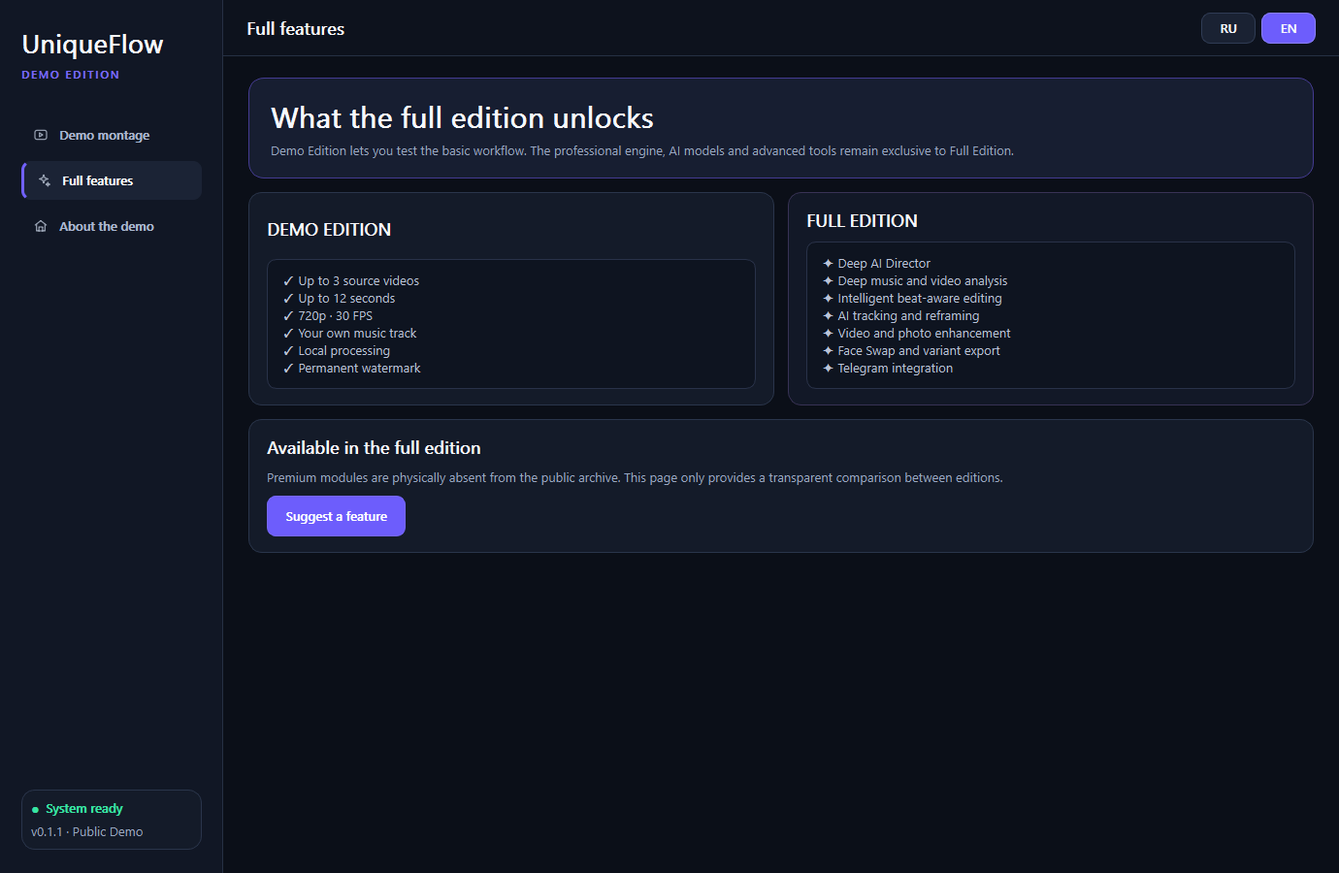
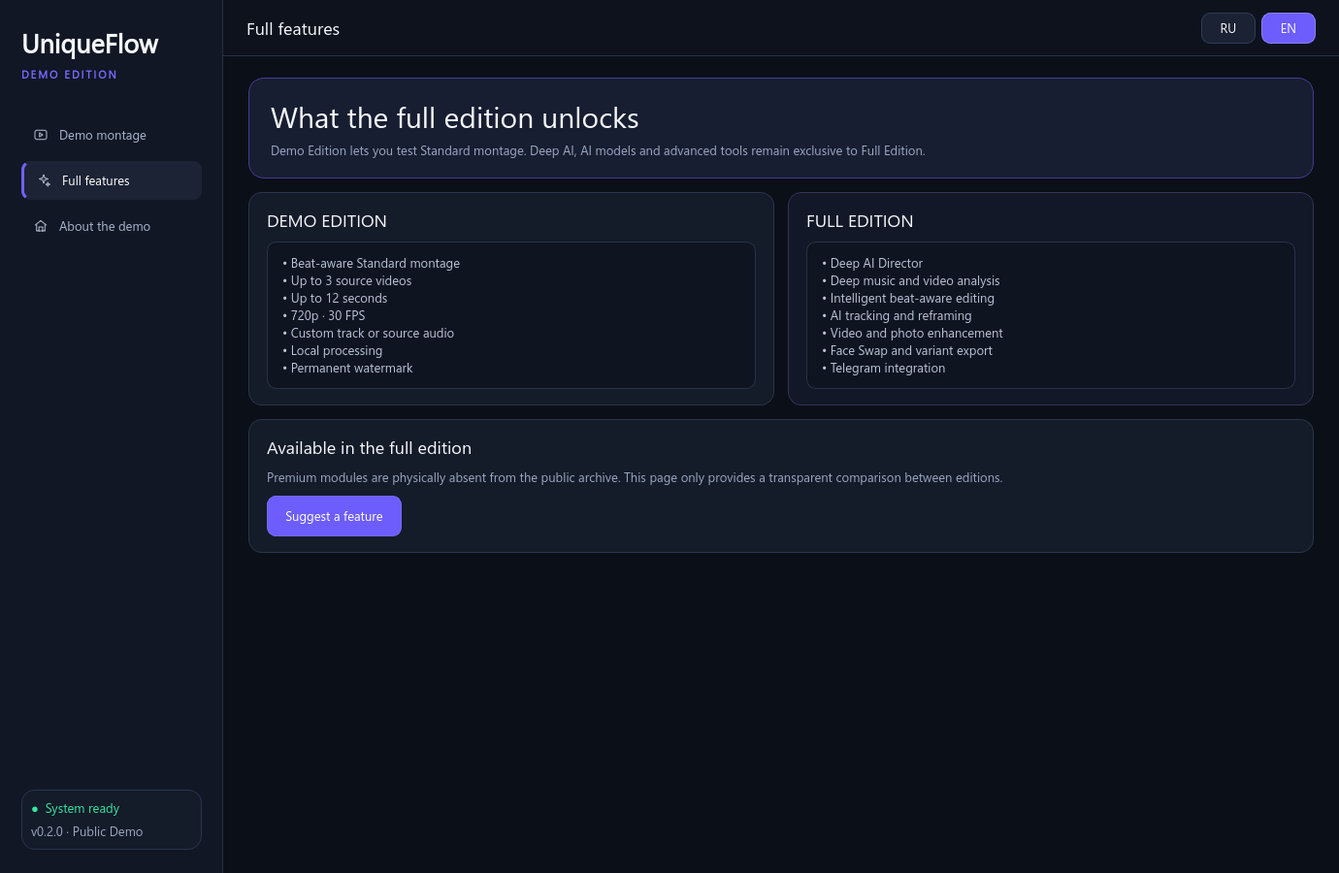
Upgrade public demo to Standard montage 0.2.0

diff --git a/ru/index.html b/ru/index.html
@@ -51,14 +51,14 @@
     <section class="proof-strip" aria-label="Параметры демоверсии"><div class="shell proof-grid"><div><b>3</b><span>исходных видео</span></div><div><b>12с</b><span>готовый результат</span></div><div><b>720p</b><span>экспорт H.264</span></div><div><b>100%</b><span>локальная работа</span></div></div></section>
 
     <section class="section showcase" id="showcase"><div class="shell showcase-grid">
-      <div class="section-copy reveal"><p class="eyebrow"><span></span> Демонстрация продукта</p><h2>Посмотрите процесс,<br>а не обещания.</h2><p>Full Edition развивается как умная творческая студия. Публичная демоверсия уже сейчас позволяет безопасно проверить базовый рабочий процесс.</p><ul class="check-list"><li>Добавьте до трёх локальных роликов</li><li>Выберите музыкальный трек</li><li>Посмотрите и экспортируйте результат</li></ul></div>
+      <div class="section-copy reveal"><p class="eyebrow"><span></span> Демонстрация продукта</p><h2>Посмотрите процесс,<br>а не обещания.</h2><p>Full Edition развивается как умная творческая студия. Demo 0.2.0 уже позволяет проверить настоящий, но ограниченный Standard-монтаж.</p><ul class="check-list"><li>Добавьте до трёх локальных роликов</li><li>Выберите музыку или оставьте звук первого видео</li><li>Получите Standard-монтаж с учётом ритма</li></ul></div>
       <div class="video-card reveal"><div class="video-label"><span>UNIQUEFLOW</span><small>ПРЕДПРОСМОТР FULL EDITION</small></div><video controls playsinline preload="metadata" poster="../assets/promo-poster-ru.jpg"><source src="../assets/uniqueflow-studio-promo-ru.mp4" type="video/mp4">Ваш браузер не поддерживает HTML5-видео.</video><p>Рекламная демонстрация. Публичная версия намеренно ограничена.</p></div>
     </div></section>
 
     <section class="section section-muted" id="features"><div class="shell">
       <div class="section-heading reveal"><p class="eyebrow"><span></span> Идея UniqueFlow</p><h2>Меньше настроек. Больше готовых работ.</h2><p>Импорт, просмотр, монтаж и экспорт коротких роликов в одном приложении.</p></div>
       <div class="feature-grid">
-        <article class="feature-card reveal"><span class="feature-index">01</span><h3>Монтаж с учётом музыки</h3><p>Full Edition анализирует ритм и движение, чтобы строить монтаж под материал, а не по одному шаблону.</p></article>
+        <article class="feature-card reveal"><span class="feature-index">01</span><h3>Монтаж с учётом музыки</h3><p>Demo анализирует ритм и движение для Standard-монтажа; Full Edition добавляет более глубокое понимание сцен и режиссуру.</p></article>
         <article class="feature-card reveal"><span class="feature-index">02</span><h3>Умное кадрирование</h3><p>Трекинг и кадрирование помогают удерживать главного героя в вертикальной или горизонтальной композиции.</p></article>
         <article class="feature-card reveal"><span class="feature-index">03</span><h3>Улучшение качества</h3><p>Улучшение видео и фото, а также расширенный экспорт входят в закрытую Full Edition.</p></article>
         <article class="feature-card reveal"><span class="feature-index">04</span><h3>Локальная работа</h3><p>Публичное демо обрабатывает выбранные файлы на вашем компьютере и не содержит аналитики или телеметрии.</p></article>
@@ -67,7 +67,7 @@
 
     <section class="section" id="demo"><div class="shell">
       <div class="section-heading reveal"><p class="eyebrow"><span></span> Публичная Demo Edition</p><h2>Попробуйте за несколько минут.</h2><p>Без аккаунта и установщика. Скачайте, распакуйте и запустите.</p></div>
-      <div class="steps"><article class="step reveal"><b>1</b><div><h3>Скачайте</h3><p>Загрузите свежий ZIP-архив из GitHub Releases.</p></div></article><article class="step reveal"><b>2</b><div><h3>Добавьте файлы</h3><p>Выберите до трёх видео и при желании музыку.</p></div></article><article class="step reveal"><b>3</b><div><h3>Создайте результат</h3><p>Получите ролик до 12 секунд в 720p с водяным знаком.</p></div></article></div>
+      <div class="steps"><article class="step reveal"><b>1</b><div><h3>Скачайте</h3><p>Загрузите свежий ZIP-архив из GitHub Releases.</p></div></article><article class="step reveal"><b>2</b><div><h3>Добавьте файлы</h3><p>Выберите до трёх видео. Музыка необязательна — звук исходника сохранится.</p></div></article><article class="step reveal"><b>3</b><div><h3>Создайте результат</h3><p>Получите ролик до 12 секунд в 720p с водяным знаком.</p></div></article></div>
       <div class="screenshot-frame reveal"><img src="../assets/demo-features-ru.png" alt="Сравнение UniqueFlow Studio Demo и Full Edition" width="1380" height="900" loading="lazy"></div>
     </div></section>
 
@@ -75,16 +75,16 @@
       <div class="comparison-intro reveal"><p class="eyebrow"><span></span> Честное разделение версий</p><h2>Настоящее демо<br>с понятными рамками.</h2><p>Закрытый движок и премиальные модули физически отсутствуют в публичной загрузке.</p></div>
       <div class="comparison-table reveal" role="table" aria-label="Сравнение Demo и Full Edition">
         <div class="comparison-row comparison-head" role="row"><span role="columnheader">Возможность</span><b role="columnheader">Demo</b><b role="columnheader">Full</b></div>
-        <div class="comparison-row" role="row"><span>Базовый короткий монтаж</span><b class="yes">✓</b><b class="yes">✓</b></div><div class="comparison-row" role="row"><span>Локальная обработка</span><b class="yes">✓</b><b class="yes">✓</b></div><div class="comparison-row" role="row"><span>Deep AI Director</span><b class="no">—</b><b class="yes">✓</b></div><div class="comparison-row" role="row"><span>AI-трекинг и кадрирование</span><b class="no">—</b><b class="yes">✓</b></div><div class="comparison-row" role="row"><span>Улучшение и премиум-экспорт</span><b class="no">—</b><b class="yes">✓</b></div><div class="comparison-row" role="row"><span>Интеграция с Telegram</span><b class="no">—</b><b class="yes">✓</b></div>
+        <div class="comparison-row" role="row"><span>Standard-монтаж в ритм</span><b class="yes">✓</b><b class="yes">✓</b></div><div class="comparison-row" role="row"><span>Локальная обработка</span><b class="yes">✓</b><b class="yes">✓</b></div><div class="comparison-row" role="row"><span>Deep AI Director</span><b class="no">—</b><b class="yes">✓</b></div><div class="comparison-row" role="row"><span>AI-трекинг и кадрирование</span><b class="no">—</b><b class="yes">✓</b></div><div class="comparison-row" role="row"><span>Улучшение и премиум-экспорт</span><b class="no">—</b><b class="yes">✓</b></div><div class="comparison-row" role="row"><span>Интеграция с Telegram</span><b class="no">—</b><b class="yes">✓</b></div>
       </div>
     </div></section>
 
     <section class="section section-muted" id="faq"><div class="shell faq-grid">
       <div class="section-copy reveal"><p class="eyebrow"><span></span> Вопросы</p><h2>Что важно знать.</h2><p>UniqueFlow пока находится на ранней стадии. Честные отзывы напрямую влияют на следующие функции.</p></div>
-      <div class="faq-list reveal"><details><summary>Демоверсия бесплатная?</summary><p>Да. Версия 0.1.1 — ограниченная ознакомительная сборка с видимым водяным знаком.</p></details><details><summary>Видео загружаются в интернет?</summary><p>Нет. Публичное демо обрабатывает выбранные файлы локально и не содержит телеметрии.</p></details><details><summary>Почему Windows показывает предупреждение?</summary><p>Ранняя сборка пока не подписана цифровой подписью, поэтому SmartScreen может показать «Неизвестный издатель». Скачивайте программу только из официального GitHub Release и сверяйте SHA-256.</p></details><details><summary>Можно использовать любое видео?</summary><p>Используйте только свои материалы или контент, на который у вас есть разрешение. Программа не предназначена для нарушения приватности, авторских прав или правил площадок.</p></details><details><summary>Как связаться с разработчиком?</summary><p>Напишите в Telegram <a href="https://t.me/zloy_tomych">@zloy_tomych</a> или создайте Issue на GitHub.</p></details></div>
+      <div class="faq-list reveal"><details><summary>Демоверсия бесплатная?</summary><p>Да. Версия 0.2.0 — ограниченная ознакомительная сборка со Standard-монтажом и видимым водяным знаком.</p></details><details><summary>Видео загружаются в интернет?</summary><p>Нет. Публичное демо обрабатывает выбранные файлы локально и не содержит телеметрии.</p></details><details><summary>Почему Windows показывает предупреждение?</summary><p>Ранняя сборка пока не подписана цифровой подписью, поэтому SmartScreen может показать «Неизвестный издатель». Скачивайте программу только из официального GitHub Release и сверяйте SHA-256.</p></details><details><summary>Можно использовать любое видео?</summary><p>Используйте только свои материалы или контент, на который у вас есть разрешение. Программа не предназначена для нарушения приватности, авторских прав или правил площадок.</p></details><details><summary>Как связаться с разработчиком?</summary><p>Напишите в Telegram <a href="https://t.me/zloy_tomych">@zloy_tomych</a> или создайте Issue на GitHub.</p></details></div>
     </div></section>
 
-    <section class="final-cta"><div class="shell final-cta-inner reveal"><div><p class="eyebrow"><span></span> Помогите выбрать следующий шаг</p><h2>Попробуйте. Проверьте. Расскажите, что важно.</h2><p>Ваш отзыв поможет расставить приоритеты развития.</p></div><div class="final-actions"><a class="button button-primary" href="https://github.com/chernoivanenko45/UniqueFlow-Studio-Demo/releases/latest">Скачать Demo 0.1.1</a><a class="button button-ghost" href="https://t.me/zloy_tomych">Telegram @zloy_tomych</a></div></div></section>
+    <section class="final-cta"><div class="shell final-cta-inner reveal"><div><p class="eyebrow"><span></span> Помогите выбрать следующий шаг</p><h2>Попробуйте. Проверьте. Расскажите, что важно.</h2><p>Ваш отзыв поможет расставить приоритеты развития.</p></div><div class="final-actions"><a class="button button-primary" href="https://github.com/chernoivanenko45/UniqueFlow-Studio-Demo/releases/latest">Скачать Demo 0.2.0</a><a class="button button-ghost" href="https://t.me/zloy_tomych">Telegram @zloy_tomych</a></div></div></section>
   </main>
 
   <footer><div class="shell footer-grid"><div class="brand footer-brand"><img src="../assets/app-icon.svg" alt="" width="34" height="34"><span><strong>UniqueFlow</strong><small>STUDIO</small></span></div><p>© <span data-year>2026</span> UniqueFlow Studio. Проприетарное ПО. Демо только для ознакомления.</p><nav aria-label="Юридическая информация"><a href="../PRIVACY.md">Приватность</a><a href="../RESPONSIBLE_USE.md">Правила</a><a href="../LICENSE.md">Лицензия</a><a href="https://github.com/chernoivanenko45/UniqueFlow-Studio-Demo">GitHub</a></nav></div></footer>

diff --git a/index.html b/index.html
@@ -88,11 +88,11 @@
         <div class="section-copy reveal">
           <p class="eyebrow"><span></span> Product preview</p>
           <h2>See the workflow,<br>not another promise.</h2>
-          <p>The Full Edition is being developed as a smarter creative workstation. The downloadable demo gives you a safe, deliberately limited way to test the basic workflow today.</p>
+          <p>The Full Edition is being developed as a smarter creative workstation. Demo 0.2.0 now lets you test a real, deliberately limited Standard montage workflow.</p>
           <ul class="check-list">
             <li>Bring up to three local clips</li>
-            <li>Add an optional music track</li>
-            <li>Preview and export a short result</li>
+            <li>Add music or keep audio from the first source</li>
+            <li>Create a beat-aware Standard montage</li>
           </ul>
         </div>
         <div class="video-card reveal">
@@ -114,7 +114,7 @@
           <p>One place for importing, previewing, editing and exporting short-form video.</p>
         </div>
         <div class="feature-grid">
-          <article class="feature-card reveal"><span class="feature-index">01</span><h3>Music-aware direction</h3><p>The Full Edition analyses rhythm and movement to build edits around the material instead of using one fixed template.</p></article>
+          <article class="feature-card reveal"><span class="feature-index">01</span><h3>Music-aware direction</h3><p>The Demo analyses rhythm and movement for Standard montage; Full Edition adds deeper scene understanding and creative direction.</p></article>
           <article class="feature-card reveal"><span class="feature-index">02</span><h3>Smart reframing</h3><p>Tracking and framing tools are designed to keep the important subject inside a vertical or horizontal composition.</p></article>
           <article class="feature-card reveal"><span class="feature-index">03</span><h3>Quality tools</h3><p>Video enhancement, photo enhancement and advanced export are part of the private Full Edition roadmap.</p></article>
           <article class="feature-card reveal"><span class="feature-index">04</span><h3>Local-first workflow</h3><p>The public demo processes selected clips on your Windows computer and includes no analytics or telemetry.</p></article>
@@ -131,7 +131,7 @@
         </div>
         <div class="steps">
           <article class="step reveal"><b>1</b><div><h3>Download</h3><p>Get the latest portable ZIP from GitHub Releases.</p></div></article>
-          <article class="step reveal"><b>2</b><div><h3>Add your media</h3><p>Select up to three videos and an optional music track.</p></div></article>
+          <article class="step reveal"><b>2</b><div><h3>Add your media</h3><p>Select up to three videos. Music is optional; source audio is kept automatically.</p></div></article>
           <article class="step reveal"><b>3</b><div><h3>Create a result</h3><p>Export a watermarked clip up to 12 seconds in 720p.</p></div></article>
         </div>
         <div class="screenshot-frame reveal">
@@ -149,7 +149,7 @@
         </div>
         <div class="comparison-table reveal" role="table" aria-label="Demo and Full Edition comparison">
           <div class="comparison-row comparison-head" role="row"><span role="columnheader">Capability</span><b role="columnheader">Demo</b><b role="columnheader">Full</b></div>
-          <div class="comparison-row" role="row"><span>Basic short montage</span><b class="yes">✓</b><b class="yes">✓</b></div>
+          <div class="comparison-row" role="row"><span>Beat-aware Standard montage</span><b class="yes">✓</b><b class="yes">✓</b></div>
           <div class="comparison-row" role="row"><span>Local media processing</span><b class="yes">✓</b><b class="yes">✓</b></div>
           <div class="comparison-row" role="row"><span>Deep AI Director</span><b class="no">—</b><b class="yes">✓</b></div>
           <div class="comparison-row" role="row"><span>AI tracking and reframing</span><b class="no">—</b><b class="yes">✓</b></div>
@@ -163,7 +163,7 @@
       <div class="shell faq-grid">
         <div class="section-copy reveal"><p class="eyebrow"><span></span> Questions</p><h2>Good to know.</h2><p>UniqueFlow is still an early product. Honest feedback now directly influences what gets built next.</p></div>
         <div class="faq-list reveal">
-          <details><summary>Is the demo free?</summary><p>Yes. Version 0.1.1 is a limited evaluation build with a visible watermark.</p></details>
+          <details><summary>Is the demo free?</summary><p>Yes. Version 0.2.0 is a limited evaluation build with Standard montage and a visible watermark.</p></details>
           <details><summary>Does it upload my videos?</summary><p>No. The public demo processes selected media locally and contains no telemetry.</p></details>
           <details><summary>Why does Windows show a warning?</summary><p>This early preview is not code-signed yet, so SmartScreen may show an “Unknown publisher” warning. Download only from the official GitHub Release and verify its SHA-256 value.</p></details>
           <details><summary>Can I use any video?</summary><p>Use only media you own or have permission to process. The software must not be used to violate privacy, copyright or platform rules.</p></details>
@@ -175,7 +175,7 @@
     <section class="final-cta">
       <div class="shell final-cta-inner reveal">
         <div><p class="eyebrow"><span></span> Help shape the next version</p><h2>Try it. Break it. Tell us what matters.</h2><p>Your feedback decides which capabilities receive priority.</p></div>
-        <div class="final-actions"><a class="button button-primary" href="https://github.com/chernoivanenko45/UniqueFlow-Studio-Demo/releases/latest">Download Demo 0.1.1</a><a class="button button-ghost" href="https://t.me/zloy_tomych">Telegram @zloy_tomych</a></div>
+        <div class="final-actions"><a class="button button-primary" href="https://github.com/chernoivanenko45/UniqueFlow-Studio-Demo/releases/latest">Download Demo 0.2.0</a><a class="button button-ghost" href="https://t.me/zloy_tomych">Telegram @zloy_tomych</a></div>
       </div>
     </section>
   </main>

diff --git a/README.md b/README.md
@@ -17,12 +17,12 @@
 
 UniqueFlow Studio is a local-first Windows video editing project focused on turning source clips and music into a finished short edit with minimal setup.
 
-This repository contains the **limited public Demo Edition**, created to collect honest early feedback. It is not the full AI product and it intentionally does not contain the proprietary editing engine or source code.
+This repository contains the **limited public Demo Edition**, created to collect honest early feedback. It is not the full AI product and intentionally excludes the production Deep AI backend, premium models and source code.
 
 ## Try it
 
 1. Open [Releases](https://github.com/chernoivanenko45/UniqueFlow-Studio-Demo/releases/latest).
-2. Download `UniqueFlowStudio_Demo_0.1.1_Portable.zip`.
+2. Download `UniqueFlowStudio_Demo_0.2.0_Portable.zip`.
 3. Extract the complete archive to a normal folder.
 4. Run `UniqueFlowStudioDemo.exe`.
 5. Add up to three videos, optionally choose a music track, and create a short demo edit.
@@ -32,10 +32,11 @@ This repository contains the **limited public Demo Edition**, created to collect
 ## Demo Edition capabilities
 
 - Up to 3 local source videos
+- Beat-aware Standard montage with motion-based fragment selection
 - Different time ranges selected from every source
-- Optional local music track
+- Optional local music track, with automatic source-audio fallback
 - Automatic vertical or horizontal output
-- Short crossfade transitions
+- Standard-style cuts, reframing, slow motion, reverse and visual accents
 - 720p, 30 FPS H.264 output
 - Up to 12 seconds per result
 - Permanent visible `UniqueFlow Studio — DEMO` watermark
@@ -55,7 +56,7 @@ This repository contains the **limited public Demo Edition**, created to collect
 
 | Module | Public Demo |
 |---|---:|
-| Basic demo montage | Included |
+| Beat-aware Standard montage | Included |
 | Deep AI Director | Not included |
 | Deep video understanding | Not included |
 | Three AI drafts | Not included |
@@ -66,7 +67,7 @@ This repository contains the **limited public Demo Edition**, created to collect
 | Telegram bot and downloader | Not included |
 | Variant export | Not included |
 
-The demo uses a separate simplified renderer. The original production backend, AI models and premium modules are physically absent from the downloadable package.
+The demo uses an isolated Standard engine. The production Deep AI backend, AI models and premium modules are physically absent from the downloadable package.
 
 ## Privacy
 

diff --git a/CHANGELOG.md b/CHANGELOG.md
@@ -1,5 +1,15 @@
 # Changelog
 
+## 0.2.0 — Standard montage engine
+
+- Replaced the placeholder renderer with an isolated beat-aware Standard engine
+- Added rhythm/bass and motion analysis for fragment selection
+- Added Standard-style cuts, reframing, slow motion, reverse and visual accents
+- Added automatic audio fallback from the first source video
+- Warmed up the media player for faster first playback
+- Kept one continuous timeline and audio stream through full-screen changes
+- Preserved the 3-video, 12-second, 720p and permanent-watermark limits
+
 ## Website launch
 
 - Added a responsive bilingual product website for GitHub Pages.

diff --git a/FFMPEG_SOURCE_OFFER.md b/FFMPEG_SOURCE_OFFER.md
@@ -1,6 +1,6 @@
 # FFmpeg build and source information
 
-UniqueFlow Studio Demo 0.1.1 bundles the following unmodified upstream build:
+UniqueFlow Studio Demo 0.2.0 bundles the following unmodified upstream build:
 
 - Archive: `ffmpeg-N-125990-g5c395992f9-win64-lgpl-shared.zip`
[1 lines of base64/hex data omitted]
